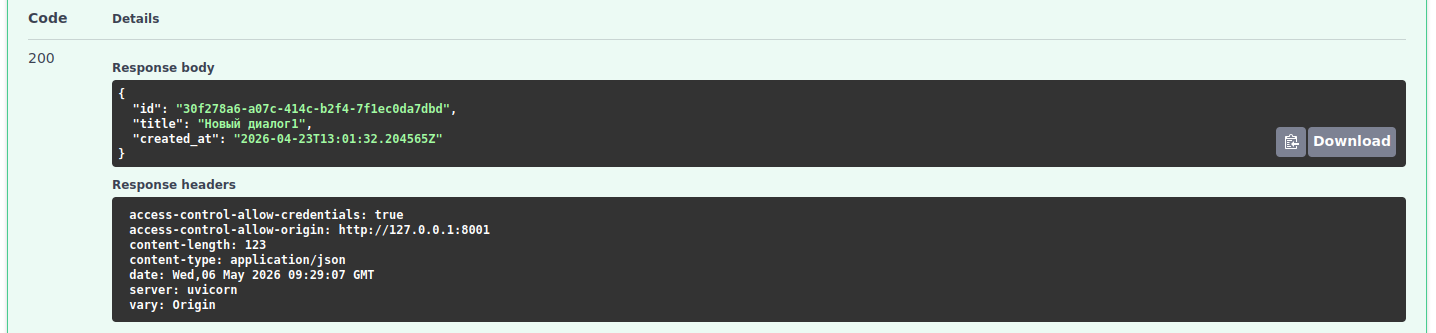
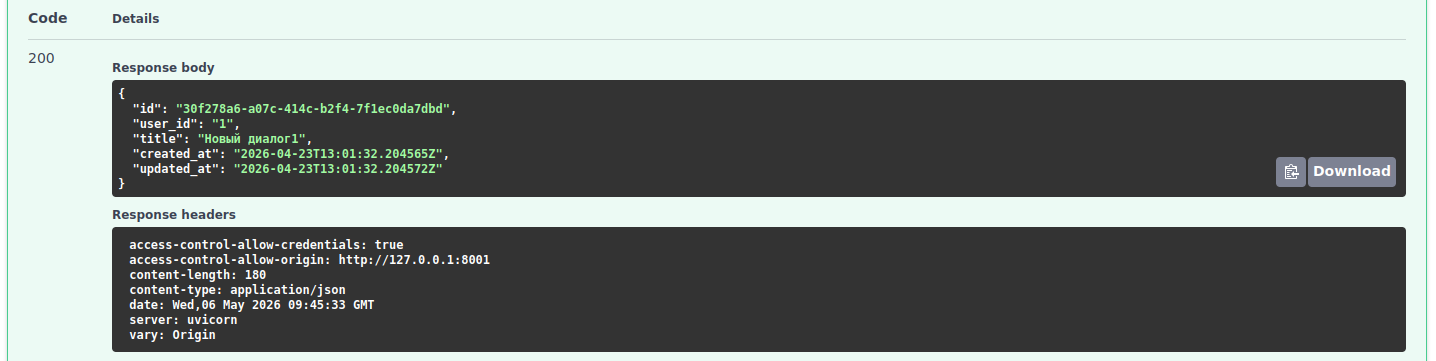
Для chat_api_service изменен эндпоинт для получения сведений о диалоге

diff --git a/llm-chat-service/chat_api_service/app/api/routes_conversation.py b/llm-chat-service/chat_api_service/app/api/routes_conversation.py
@@ -193,7 +193,7 @@ async def update_message_status(
 
 @router_conversation.post(
     "/info",
-    response_model=conversation.ConversationCreateResponse,
+    response_model=conversation.ConversationResponse,
     summary="Данные диалога",
     description="Получение данных диалога",
     responses={
@@ -233,8 +233,7 @@ async def info(
             status_code=status.HTTP_403_FORBIDDEN,
             detail=jsonable_encoder(err.detail)
         )
-    return conversation.ConversationCreateResponse(
-        id=conv_data.id,
-        title=conv_data.title,
-        created_at=conv_data.created_at
+    return conversation.ConversationResponse.model_validate(
+        conv_data,
+        from_attributes=True
     )
